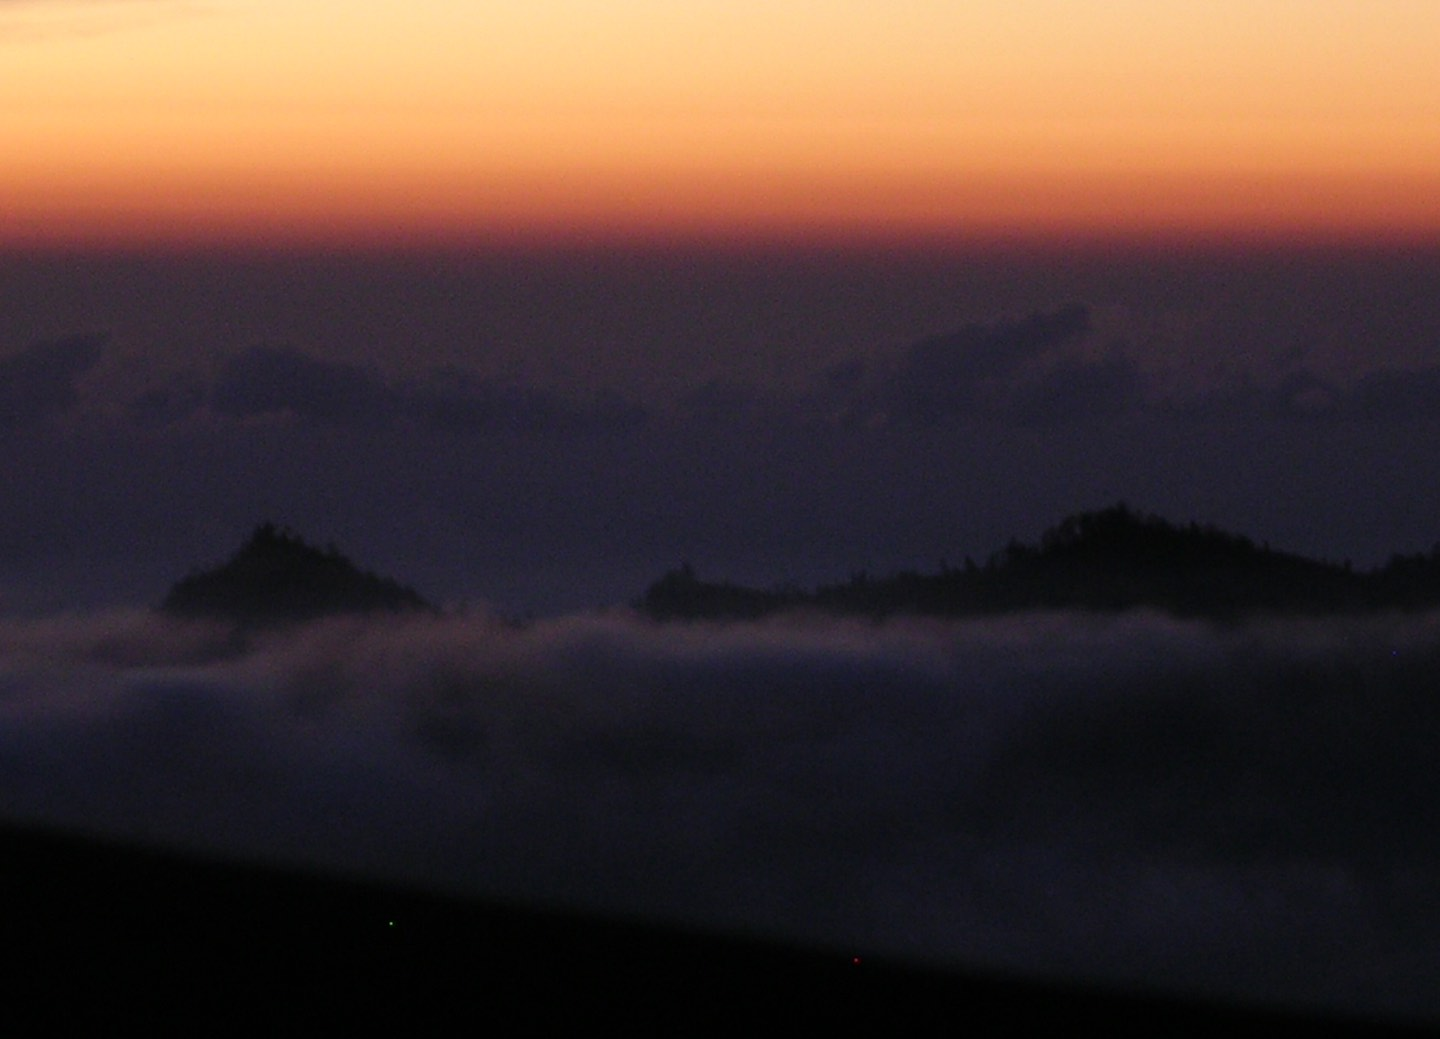
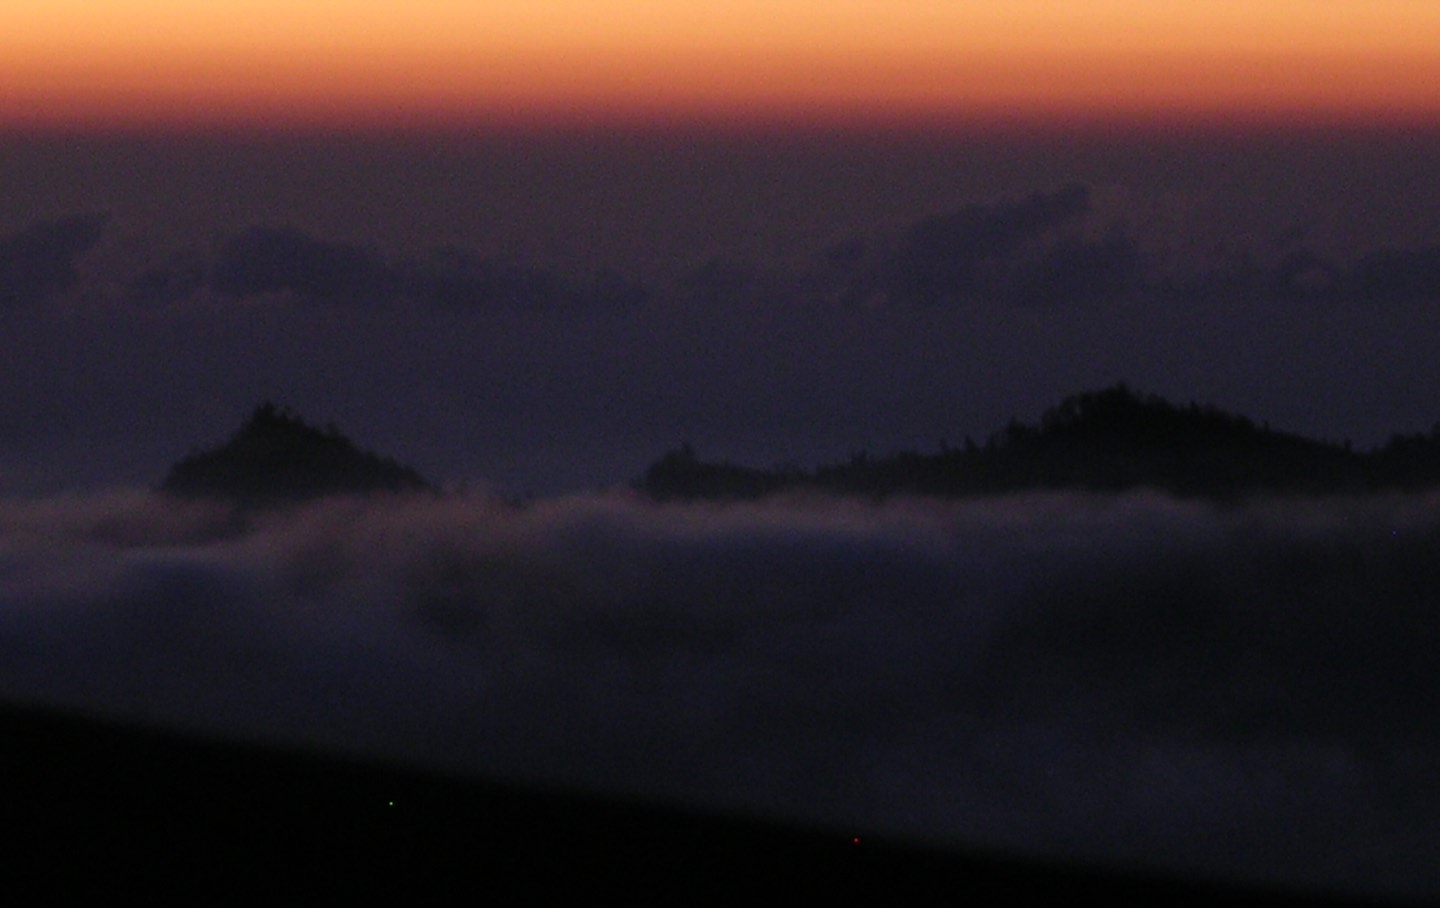
new bg image
Edited the height of the bg image

diff --git a/index.html b/index.html
@@ -38,6 +38,9 @@
         <p>This index.html page is a placeholder with the CSS, font and favicon. It's just waiting for you to add some content! If you need some help hit up the <a href="http://www.getskeleton.com">Skeleton documentation</a>.</p>
       </div>
     </div>
+  </div>
+
+  <div class="container-full-width black">
     <div class="row">
       <div class="twelve columns showreel" style="margin-top: 25%">
         <iframe src="https://player.vimeo.com/video/155311701" width="640" height="360" frameborder="0" webkitallowfullscreen mozallowfullscreen allowfullscreen></iframe>

diff --git a/css/skeleton.css b/css/skeleton.css
@@ -35,6 +35,9 @@
   margin: 0 auto;
   padding: 0 20px;
   box-sizing: border-box; }
+.container-full-width {
+  width: 100%;
+}
 .column,
 .columns {
   width: 100%;
@@ -135,6 +138,9 @@ body {
 .showreel {
   background-color: black;
   min-height:400px;
+}
+.black {
+  background-color: black;
 }
 
 
